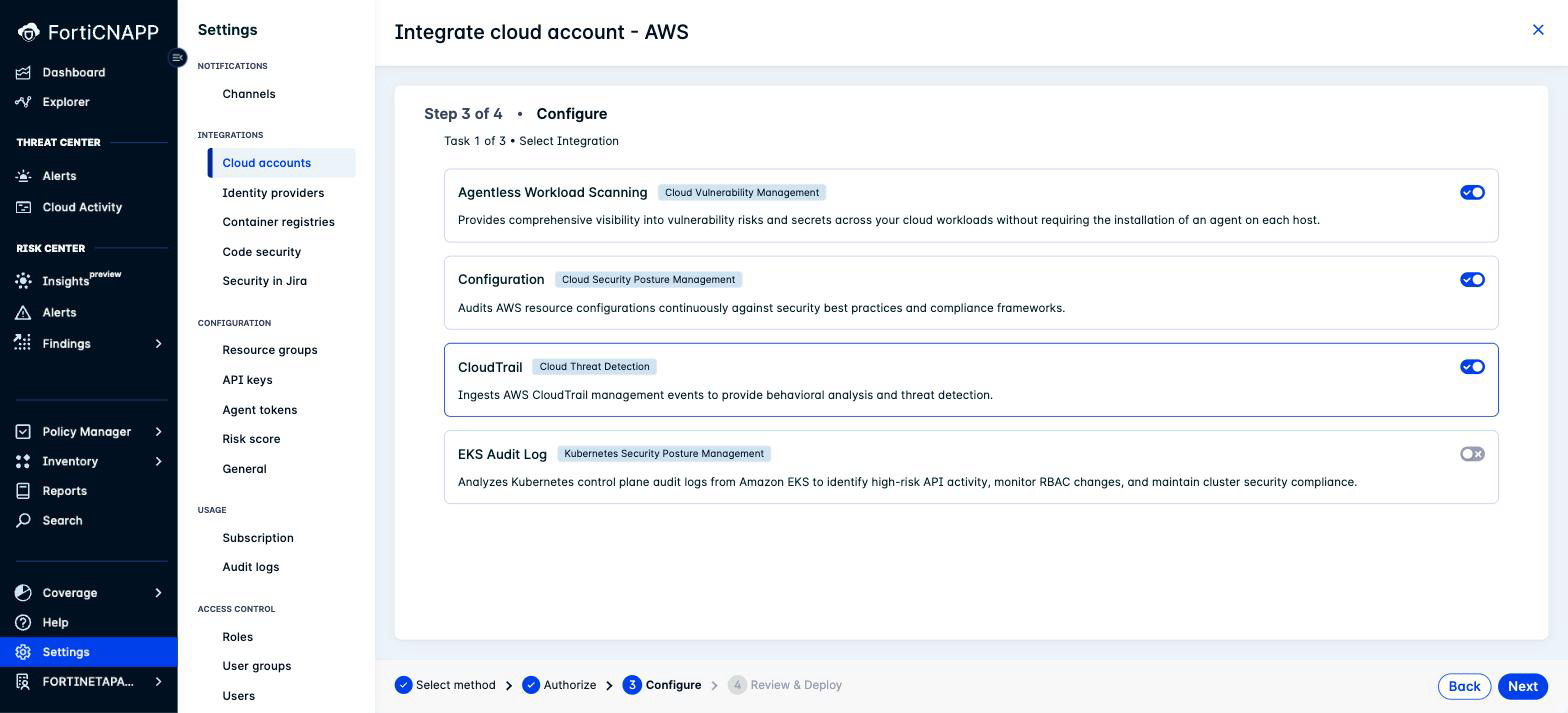
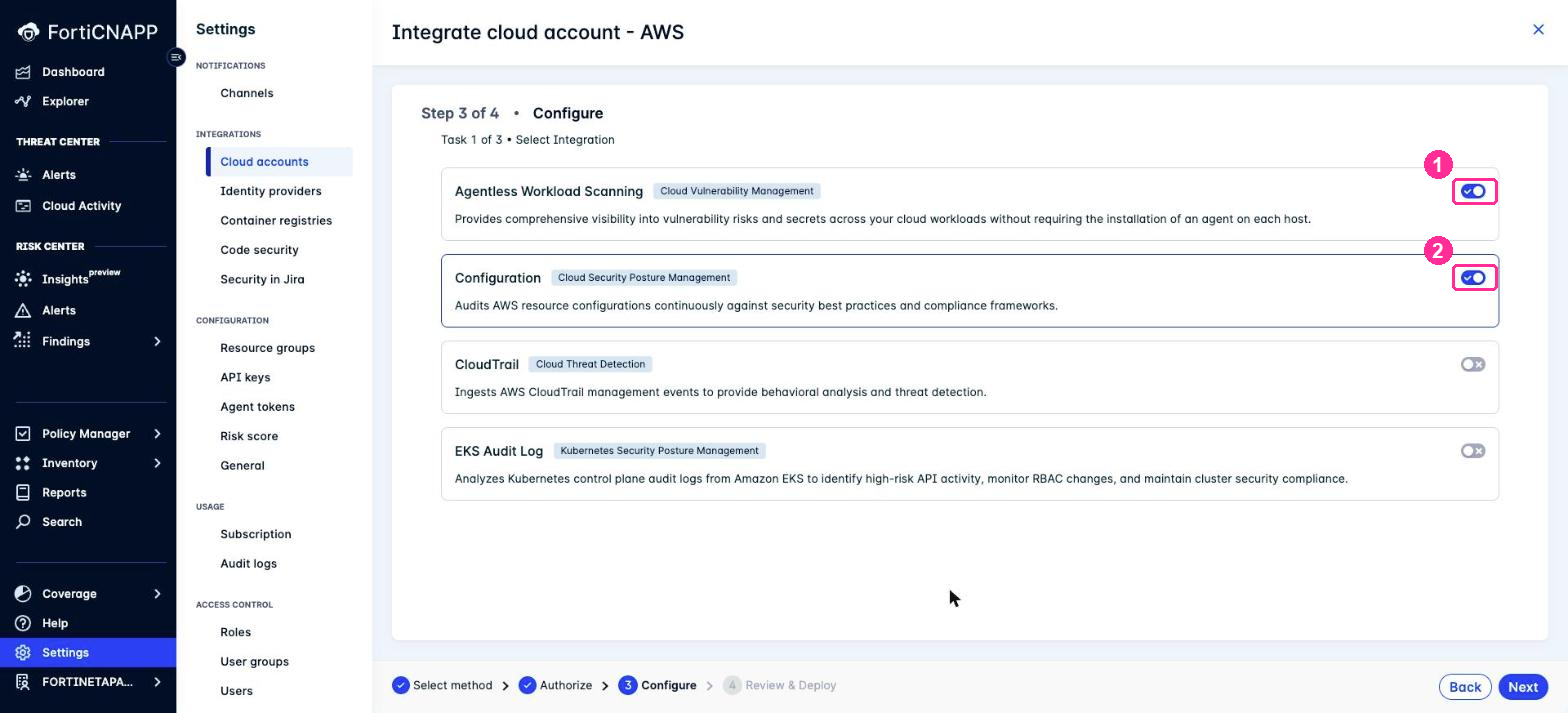
Split the onboarding: wizard for what it can do, Terraform for CloudTrail
Student accounts are now inside an AWS Organization with an org trail, so the
wizard's discovery step aborts before anything is created. Lab 3 was telling 45
people to select CloudTrail and walk into it.

Lab 3 now onboards Configuration and Agentless only. Lab 11 was already
deploying CloudTrail with Terraform, which never runs discovery, so nobody
loses a capability. They just get it one lab later, by the path that works.

Dropped --config from the Lab 11 generate command. Lab 3 already created that
integration, so asking again builds about 18 AWS resources, has registration
rejected as a duplicate, and destroys them all. That was going to happen on any
account pool, org trail or not.

Rewrote the Configure step against the live console, which had four things
wrong. They are toggles, not tick boxes. The console orders them Agentless,
Configuration, CloudTrail, EKS Audit Log, not the order the table listed. It
says EKS Audit Log, not Kubernetes audit log. And each one carries a CNAPP
capability tag, which is now a column and teaches the mapping for free.

The order was the one that mattered: a student reading a differently ordered
table hunts for the first row and finds the second.

Also flagged that Scanning regions is required and starts empty, because the
error only appears once you try to advance.

diff --git a/lab-03/README.md b/lab-03/README.md
@@ -23,7 +23,7 @@ Work through the screens, then wait five to ten minutes while it builds.
 
 | | |
 |---|---|
-| It creates real AWS resources | IAM roles, an S3 bucket, an SNS topic, an SQS queue, a CloudTrail trail. Lab 9 removes them. |
+| It creates real AWS resources | IAM roles, and the ECS cluster and networking the agentless scanner needs. Lab 9 removes them. Lab 11 adds the CloudTrail trail, bucket, SNS topic and SQS queue. |
 | The credential expires | One hour from when you made it. If the wizard sits idle, it will fail partway. |
 
 ## Prerequisites
@@ -119,29 +119,44 @@ problem, not the form. See the failure table at the end of
 
 ### Step 4: Configure (Step 3 of 4)
 
-Select the integration types to deploy.
+Task 1 of 3 is **Select Integration**. Each integration type is a **toggle**, and all four
+start off. The console lists them in this order, each tagged with the CNAPP capability it
+provides:
 
-| Integration type | What it gives you |
-|---|---|
-| **Configuration** | Resource inventory, compliance assessment, risk analysis |
-| **CloudTrail** | AWS CloudTrail ingestion for threat detection. Creates its own trail by default. |
-| **Agentless Workload Scanning** | Vulnerability and secret scanning with no agent on the instance |
-| **Kubernetes audit log** | EKS audit log ingestion. Skip it unless this account runs EKS. |
+| Toggle | Tagged as | What it gives you |
+|---|---|---|
+| **Agentless Workload Scanning** | Cloud Vulnerability Management | Vulnerability and secret scanning with no agent on the instance |
+| **Configuration** | Cloud Security Posture Management | Resource inventory, compliance assessment, risk analysis |
+| **CloudTrail** | Cloud Threat Detection | AWS CloudTrail ingestion. Creates its own trail by default. |
+| **EKS Audit Log** | Kubernetes Security Posture Management | EKS audit log ingestion. Leave it off unless this account runs EKS. |
 
-Select **Configuration**, **CloudTrail** and **Agentless Workload Scanning**.
+Turn on two toggles, and only two:
+
+1. **Agentless Workload Scanning**
+2. **Configuration**
+
+**Leave the CloudTrail and EKS Audit Log toggles off.**
 
 > [!WARNING]
-> **Skip CloudTrail if your AWS account is a member of an AWS Organization that has an
-> organization trail**, which most corporate accounts are. Discovery fails on it. See the
-> troubleshooting section below.
+> **Do not turn on CloudTrail in this lab.** Your student account is a member of an AWS
+> Organization that has an organization trail, and discovery aborts on it with
+> `TrailNotFoundException`. Most corporate accounts are in the same position, so this is
+> the normal case rather than a lab quirk.
 >
-> Student and standalone accounts are not affected. Select CloudTrail and you get threat
-> detection working in the same pass.
+> You are not losing the capability. **Lab 11 adds CloudTrail using Terraform**, which
+> does not run the discovery step and is unaffected. You finish the workshop with all
+> three integration types either way.
+>
+> Only an account with no organization trail can turn CloudTrail on here. If you are
+> running these labs on a standalone account, you may turn it on and skip the CloudTrail
+> step in Lab 11.
 
-![Configure step showing the four integration types, each labelled with its CNAPP capability](images/forticnapp-configure-selected.png)
+![Configure step with the Agentless Workload Scanning and Configuration toggles boxed and numbered 1 and 2, CloudTrail and EKS Audit Log left off](images/forticnapp-configure-selected.png)
 
-> **Three tick boxes, three of the four CNAPP capabilities.** Posture, threat detection and
-> vulnerability scanning, from one screen.
+> **Two toggles here, the third capability arrives in Lab 11.** Posture and vulnerability
+> scanning from the wizard, threat detection as code. That split is not a workaround: it is
+> a common production pattern, with the fast path for what the wizard does well and
+> Terraform for what belongs in a repository.
 
 #### Set the agentless scanning regions
 
@@ -150,15 +165,18 @@ completes, Task 3 asks for per-integration settings.
 
 1. On the **Agentless Workload Scanning** tab, set **Scanning regions** to the region where
    your workloads run, for example **ap-southeast-1**.
-2. On the **CloudTrail** tab, expand **Advanced options** and leave **Use an existing
-   CloudTrail** off.
 
-   Off is the default, and off is what you want. FortiCNAPP then creates its own trail,
-   S3 bucket, SNS topic and SQS queue. Nothing has to exist in the account beforehand.
+   > [!IMPORTANT]
+   > **Scanning regions is required and starts empty.** The wizard will not let you leave
+   > this step until you set it, and the error only appears once you try to advance.
 
-   Turn it on only when the account already has a trail you want FortiCNAPP to read.
+2. On the **Configuration** tab, leave **Advanced options** alone.
 
-3. On the **Configuration** tab, leave **Advanced options** alone.
+There is no CloudTrail tab, because you did not select CloudTrail. If you are on a
+standalone account and did turn it on, expand **Advanced options** on the CloudTrail tab and
+leave **Use an existing CloudTrail** off. Off is the default and off is what you want:
+FortiCNAPP then creates its own trail, S3 bucket, SNS topic and SQS queue, and nothing has
+to exist in the account beforehand.
 
 ![CloudTrail Advanced options showing Use an existing CloudTrail off by default](images/forticnapp-cloudtrail-advanced.png)
 
@@ -239,29 +257,31 @@ Remember these tags. Lab 6 uses them for cleanup.
 
 1. Return to **Settings** > **Integrations** > **Cloud accounts**.
 2. Confirm your AWS account ID appears in the list.
-3. Confirm the **Integrations** column shows Configuration, CloudTrail and Agentless.
+3. Confirm the **Integrations** column shows **Configuration** and **Agentless**.
+   CloudTrail is not there yet. Lab 11 adds it.
 
 ### Step 9: Confirm the AWS Side
 
-Switch to the AWS Console and confirm the resources exist. You can also check from
-CloudShell:
+Switch to the AWS Console and confirm the resources exist.
+
+First, see the trail that caused you to skip CloudTrail in Step 4. From CloudShell:
 
 ```bash
 aws cloudtrail describe-trails --region ap-southeast-1 \
-  --query "trailList[].[Name,IsOrganizationTrail,S3BucketName]" --output text
+  --query "trailList[].[Name,IsOrganizationTrail]" --output text
 ```
 
-A successful run returns a trail FortiCNAPP created, with `IsOrganizationTrail` **False**
-and its own bucket, for example:
+Any row with `IsOrganizationTrail` **True** is an organization trail your account can see
+but cannot manage. That is the one discovery cannot resolve:
 
 ```
-lacework-cloudtrail-7689faee   False   lacework-ct-bucket-7d009af2
+aws-controltower-BaselineCloudTrail   True
 ```
 
-1. Go to **CloudTrail** > **Trails**. Confirm a trail exists and is logging.
+You will run this command again at the end of Lab 11, where a trail with **False** in that
+column appears alongside it. That one is yours.
 
-![CloudTrail Trails list showing the trail FortiCNAPP created](images/aws-cloudtrail-created.png)
-2. Go to **IAM** > **Roles**. Find the cross-account role FortiCNAPP created.
+1. Go to **IAM** > **Roles**. Find the cross-account role FortiCNAPP created.
 3. Open the role and select the **Trust relationships** tab. The trusted principal is the
    FortiCNAPP AWS account, protected by an external ID.
 4. Go to **Amazon ECS** > **Clusters**. Confirm the agentless scanner cluster exists.
@@ -281,9 +301,12 @@ for the user: <your account id>
 CloudTrail, often created by Control Tower. A member account sees that trail as a shadow
 trail, and AWS requires the full trail ARN to look one up rather than the name.
 
-**What to do**: deselect **CloudTrail** and deploy the other integration types. For
-CloudTrail coverage across an organization, run an **organization level** integration from
-the management account.
+**What to do**: this is why Step 4 has you leave the CloudTrail toggle off, and why Lab 11
+deploys it with Terraform instead. Terraform does not run the wizard's discovery step, so
+the organization trail does not affect it.
+
+For CloudTrail coverage across a whole organization, run an **organization level**
+integration from the management account.
 
 ![Discovery failure caused by an organization CloudTrail](images/forticnapp-discovery-controltower-error.png)
 
@@ -318,7 +341,7 @@ Data does not appear instantly.
 
 | Data | First appears |
 |---|---|
-| CloudTrail events | Within 15 minutes of the trail being created |
+| CloudTrail events | Within 15 minutes of the trail being created in Lab 11 |
 | Resource inventory and compliance | Up to 24 hours on the scheduled cycle |
 | Agentless scan results | After the first scan, on a 24 hour cycle by default |
 
@@ -335,8 +358,9 @@ Source: the Authorization Guide panel in the wizard, "Data privacy and security"
 
 ## What did we do here?
 
-We onboarded an entire AWS account into FortiCNAPP in one wizard: configuration
-assessment, CloudTrail threat detection, and agentless vulnerability scanning.
+We onboarded an AWS account into FortiCNAPP from one wizard: configuration assessment and
+agentless vulnerability scanning. Lab 11 adds CloudTrail threat detection as code, which is
+how it often runs in production anyway.
 
 Compare the work:
 

diff --git a/lab-11/README.md b/lab-11/README.md
@@ -2,7 +2,11 @@
 
 ## Objectives
 
-In Lab 3, FortiCNAPP deployed the integrations for you from the console wizard. That is the fastest path and it suits most situations. But some teams want the Terraform in their own repository, reviewed in a pull request and applied by a pipeline. In this lab, we'll use the Lacework CLI to generate Terraform code, then deploy the same CloudTrail and Configuration integrations as code. This is the production-ready approach: repeatable, version-controlled, and pipeline-friendly.
+In Lab 3, FortiCNAPP deployed Configuration and Agentless for you from the console wizard. That is the fastest path and it suits most situations. CloudTrail was left out, because the wizard's discovery step cannot resolve the organization trail your account inherits.
+
+In this lab we finish the job. We'll use the Lacework CLI to generate Terraform code, then deploy the **CloudTrail** integration as code. Terraform talks to the FortiCNAPP API directly and never runs the wizard's discovery step, so the organization trail does not affect it.
+
+This is also the production-ready approach in its own right: repeatable, version-controlled, pipeline-friendly, and the Terraform can live in your own repository, be reviewed in a pull request and applied by CI. The split you are doing here, wizard for the quick wins and as-code for the rest, is a common production pattern.
 
 ## Prerequisites
 
@@ -39,16 +43,25 @@ lacework version
 
 ### Step 3: Generate Terraform Configuration for AWS Integration
 
-Use the Lacework CLI to generate Terraform code for AWS integration. This will create Terraform files for CloudTrail and Configuration assessment:
+Use the Lacework CLI to generate Terraform code for the CloudTrail integration:
 
 ```bash
 lacework generate cloud-account aws \
-  --config --cloudtrail --noninteractive \
+  --cloudtrail --noninteractive \
   --aws_region ap-southeast-1
 ```
 
+> [!IMPORTANT]
+> **Do not add `--config` here.** Lab 3 already created the Configuration integration for
+> this AWS account. Asking for it again builds around 18 AWS resources, has the
+> registration call rejected with *"The provided aws account is already used in this
+> Lacework Application"*, and then destroys them all again. Nothing is left behind, but
+> you wait through the whole cycle to be told something that was knowable up front.
+>
+> One integration type per AWS account per tenant. Generate only what you do not already
+> have.
+
 **Parameters explained:**
-- `--config`: Enable AWS Configuration integration
 - `--cloudtrail`: Enable AWS CloudTrail integration
 - `--noninteractive`: Run without prompts (uses defaults)
 - `--aws_region ap-southeast-1`: Specify the AWS region (Asia Pacific - Singapore)
@@ -110,16 +123,7 @@ This shows you:
 
 The plan output will display in your terminal. Review it carefully to understand what will be deployed.
 
-**What will be created (40+ resources total):**
-
-**AWS Configuration Integration:**
-- 1 IAM Role (`lacework_iam_role`) - Cross-account role for Lacework to access AWS Config
-- 7 IAM Policies - Audit policies for reading AWS Config data (base policy + 6 versioned policies for 2025)
-- 7 IAM Role Policy Attachments - Attaching the audit policies to the IAM role
-- 1 Lacework Integration (`lacework_integration_aws_cfg`) - Configuration assessment integration
-- 1 Lacework External ID - Security identifier for the IAM role
-- 2 Random IDs - Unique identifiers for resource naming
-- 1 Time Sleep - Wait period for resource propagation
+**What will be created (around 25 resources):**
 
 **AWS CloudTrail Integration:**
 - 1 CloudTrail - AWS CloudTrail for API activity logging
@@ -140,8 +144,18 @@ The plan output will display in your terminal. Review it carefully to understand
 - 1 IAM Policy - Cross-account policy for CloudTrail access
 - 1 IAM Role Policy Attachment - Attaching policy to IAM role
 - 1 Lacework Integration (`lacework_integration_aws_ct`) - CloudTrail integration
+- 1 IAM Role - Cross-account role for FortiCNAPP to read the trail
+- 1 Lacework External ID - Security identifier for the IAM role
 - 1 Random ID - Unique identifier for resource naming
 - 1 Time Sleep - Wait period for resource propagation
+
+> [!NOTE]
+> No Configuration resources appear in this plan. Lab 3 created that integration through
+> the wizard, and it is still in place. Check **Settings** > **Integrations** >
+> **Cloud accounts** if you want to confirm before applying.
+>
+> After this applies, the account carries all three: Configuration and Agentless from the
+> wizard, CloudTrail from Terraform.
 
 **Optional: Save the plan to a file:**
 
